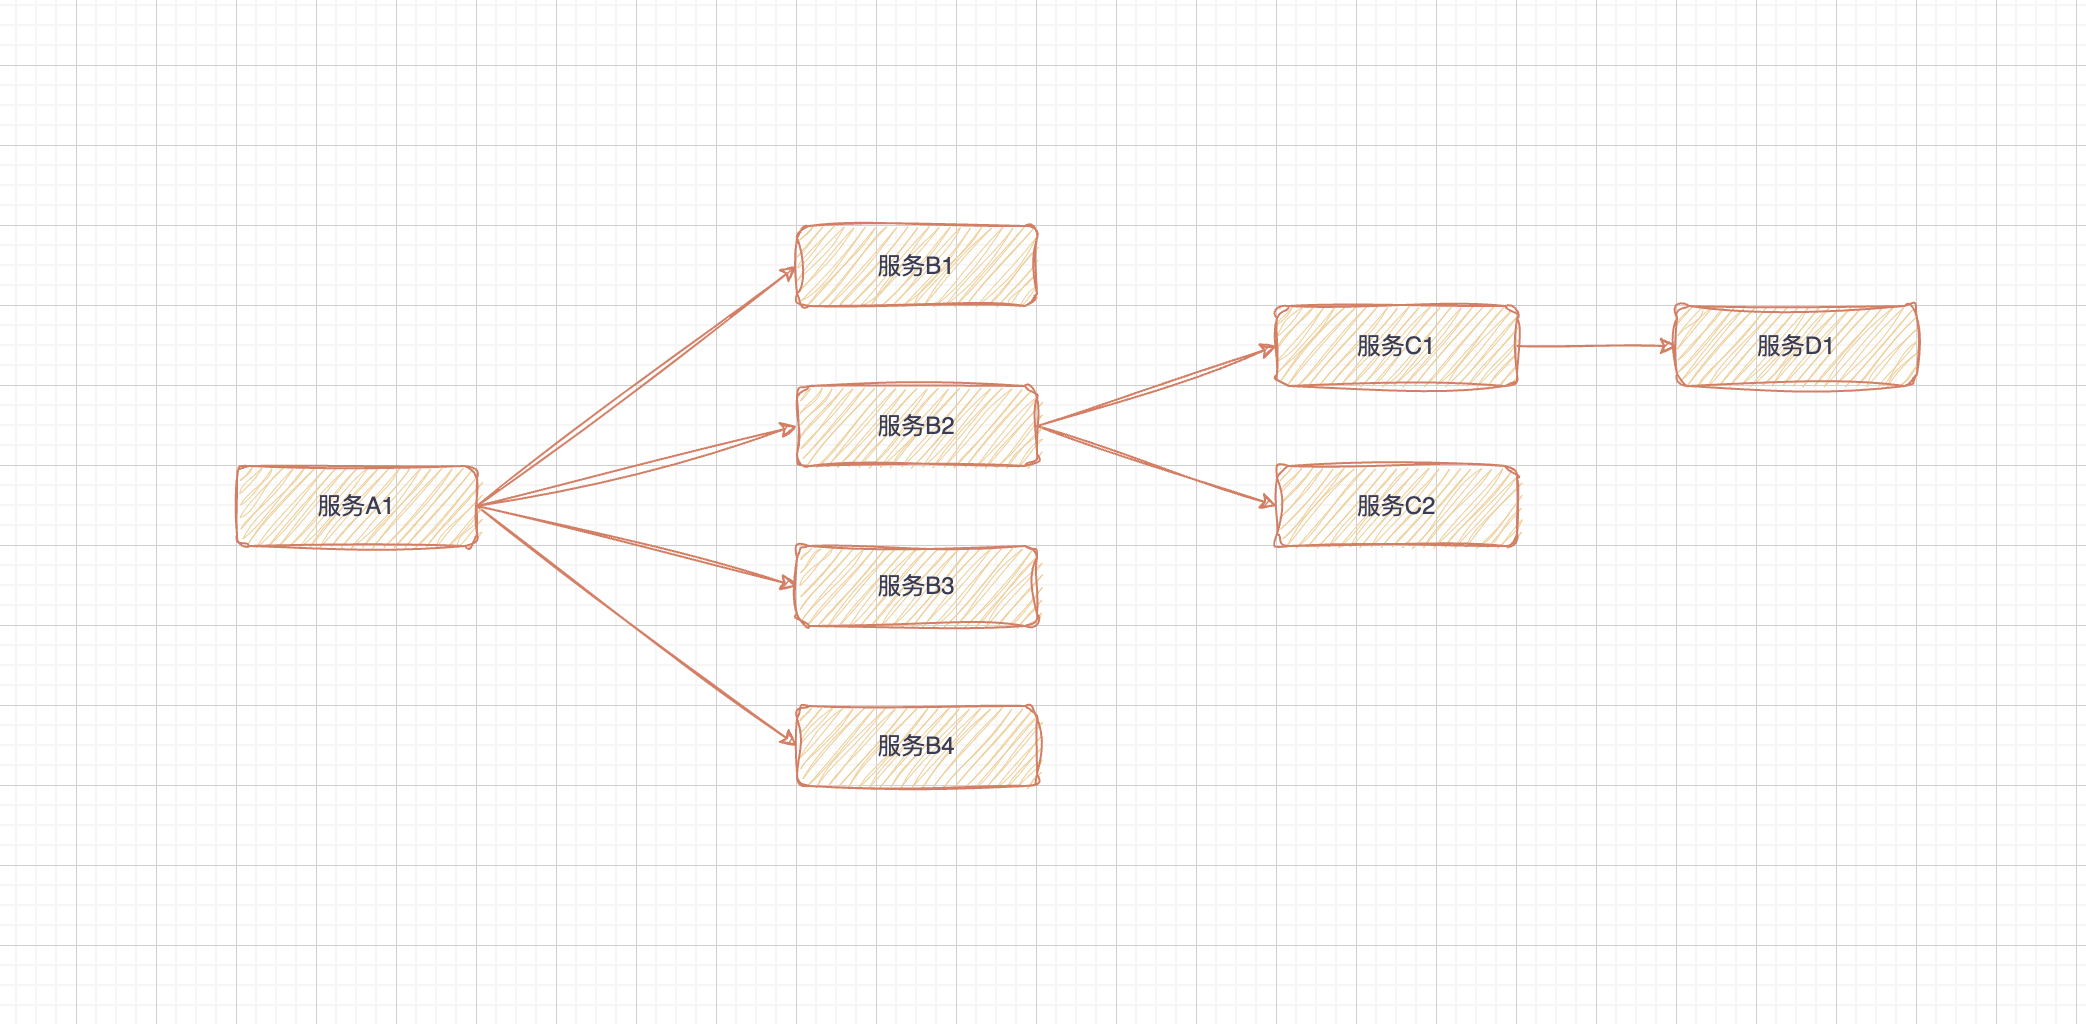
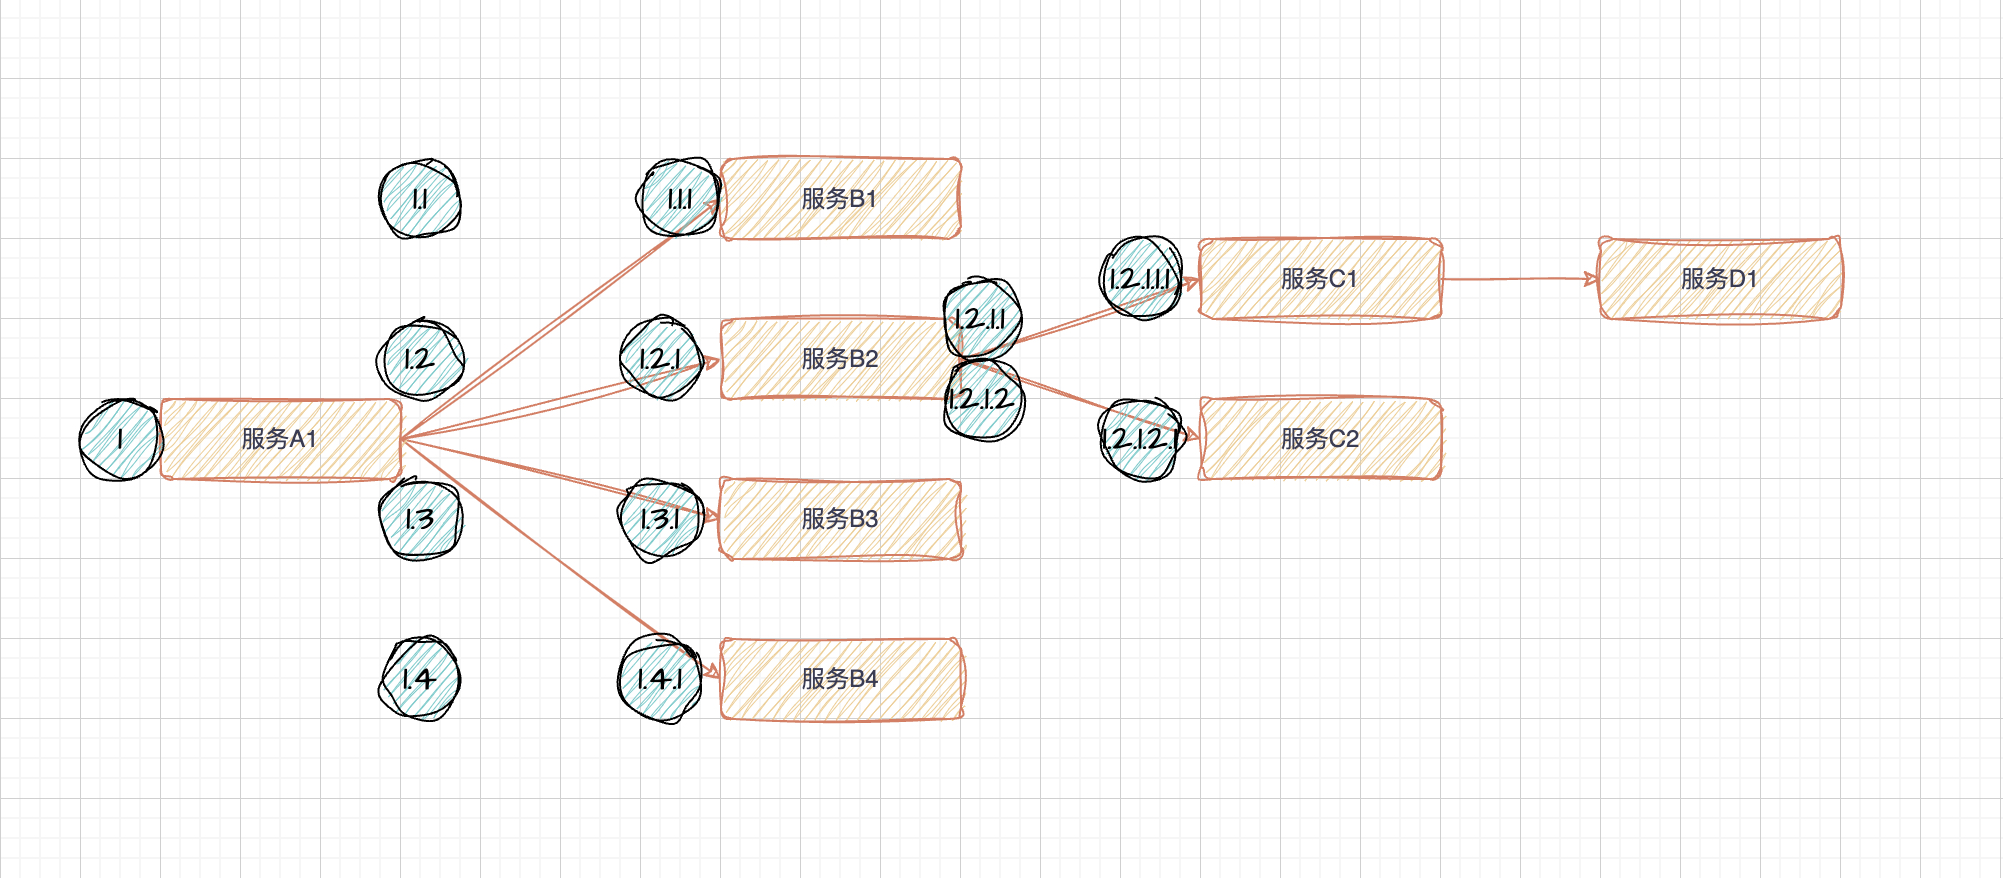
服务调用

diff --git a/编程知识/架构设计/微服务/微服务 调用链路.md b/编程知识/架构设计/微服务/微服务 调用链路.md
@@ -2,25 +2,136 @@
 
 参考：
 
-## 
+1. [opentelemetry 是什么](https://www.elastic.co/cn/what-is/opentelemetry)
+
+## 服务调用
 
 服务调用
 
 ![](../../../img/architecture/service_invoke.png)
 
-服务间的调用关系如图所示，想要记录服务间的调用关系，有两种方式：
+如何记录服务间的调用关系：
 
-**方式一：** 调用发起方。在服务调用其它服务开始时记录一条日志，结束时记录一条日志。这样能记录一个服务的耗时。记录不可扩展的第三方的组件的调用耗时，如数据库、Redis 和 消息队列等组件的服务耗时。
+**场景一：**服务在调用第三方服务，如接口、数据库、Redis、Kafka等服务的时候，记一条日志，记录调用的服务名字，开始时间、结束时间、是否成功等。
 
-服务每次调用分为若干个Span，不打印总耗时。
+**场景二：**服务在被调用时，如HTTP接口，RPC接口等，记录一条日志，记录当前服务的名字，开始时间、结束时间、是否成功等。在被调用服务内部，调用其它服务的时候同第一步。
 
-**方式二：** 被调用方。被调用方记录调用开始和调用结束的耗时。这种方式适用于自己维护的服务。对于数据库、Kafka 和消息队列等组件修改源代码比较麻烦。
+对于像Redis、Kafka、MySQL等这些服务，无法在服务内部打印日志记录耗时，只能在调用这些服务的时候记录耗时，即 **场景一**。
+
+以 **服务B2** 为例：
 
 
-需要考虑的点：多线程的时候怎么处理
+|动作|记录|描述|
+|::|::|::|
+|服务A1调用服务B2|1.2|记录服务A1调用服务B2的耗时|
+|服务B2处理请求|1.2.1|记录服务B2处理请求的耗时|
+|服务B2调用服务C1|1.2.1.1|记录服务B2调用服务C1的耗时|
+|服务B2调用服务C2|1.2.1.2|记录服务B2调用服务C2的耗时|
 
-按当前服务日志打印时间排序。
+记录 1.2 和 1.2.1 是有区别的，1.2 是调用方记录的耗时，1.2.1 是被调用方记录的耗时。1.2.1 记录的耗时一定小于 1.2 记录的耗时，中间的差值可以理解为是服务调用的网络耗时。
 
-|AA|BB|
-|::|::|
-|||
+### 记录内容
+
+**耗时简图如下：**
+
+```
+1.2       ||||||||
+1.2.1     |||||||
+1.2.1.1   ||||
+1.2.1.2   ||||||
+```
+
+**记录1.2**
+
+```json
+{
+    "level": "INFO",
+    "time": "2024-12-25 11:01:56.116",
+    "caller": "logger/span.go:13",
+    "message": "http request",
+    "projectName": "go",
+    "type": "span",
+    "parentSpan": "1",
+    "span": "1.2",
+    "name": "http request: 127.0.0.1/invoke",
+    "spanStartUs": 1735095716071800,
+    "spanEndUs": 1735095716113901,
+    "spanDurationUs": 42101,
+    "timestampUs": 1735095716113893,
+    "traceId": "0193fbc3-88e7-7c40-b0d2-53953a0f6af8.go-web-template",
+    "durationUs": 42039
+}
+```
+
+**记录1.2.1**
+
+```json
+{
+    "level": "INFO",
+    "time": "2024-12-25 11:01:56.113",
+    "caller": "logger/span.go:13",
+    "message": "endpoint response time",
+    "projectName": "go-web-template",
+    "type": "span",
+    "parentSpan": "1.2",
+    "span": "1.2.1",
+    "name": "/invoke",
+    "spanStartUs": 1735095716071808,
+    "spanEndUs": 1735095716113868,
+    "spanDurationUs": 42060,
+    "timestampUs": 1735095716113871,
+    "traceId": "0193fbc3-88e7-7c40-b0d2-53953a0f6af8.go-web-template",
+    "durationUs": 42039,
+    "remoteIp": "127.0.0.1",
+    "url": "/invoke",
+    "host": "127.0.0.1:8080",
+    "path": "/invoke",
+    "query": "",
+    "postForm": "",
+    "requestBody": ""
+}
+```
+
+**记录1.2.1.1**
+
+```json
+{
+    "level": "INFO",
+    "time": "2024-12-25 11:01:56.083",
+    "caller": "logger/span.go:13",
+    "message": "success",
+    "projectName": "go-web-template",
+    "type": "span",
+    "parentSpan": "1.2.1",
+    "span": "1.2.1.1",
+    "name": "serviceA",
+    "spanStartUs": 1735095716072142,
+    "spanEndUs": 1735095716083034,
+    "spanDurationUs": 10892,
+    "timestampUs": 1735095716083076,
+    "traceId": "0193fbc3-88e7-7c40-b0d2-53953a0f6af8.go-web-template",
+    "durationUs": 11253
+}
+```
+
+**记录1.2.1.2**
+
+```json
+{
+    "level": "ERROR",
+    "time": "2024-12-25 11:01:56.104",
+    "caller": "logger/span.go:18",
+    "message": "failed",
+    "projectName": "go-web-template",
+    "type": "span",
+    "parentSpan": "1.2.1",
+    "span": "1.2.1.2",
+    "name": "serviceB",
+    "spanStartUs": 1735095716083174,
+    "spanEndUs": 1735095716104517,
+    "spanDurationUs": 21343,
+    "timestampUs": 1735095716104526,
+    "traceId": "0193fbc3-88e7-7c40-b0d2-53953a0f6af8.go-web-template",
+    "durationUs": 32697
+}
+```
